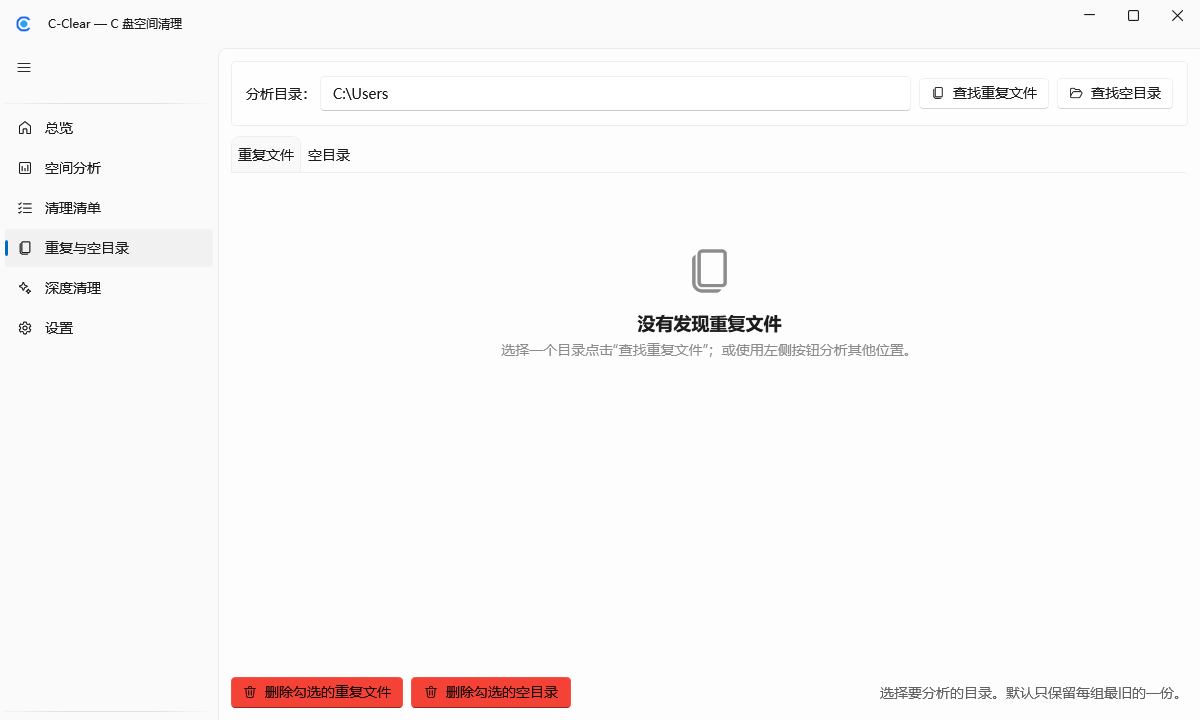
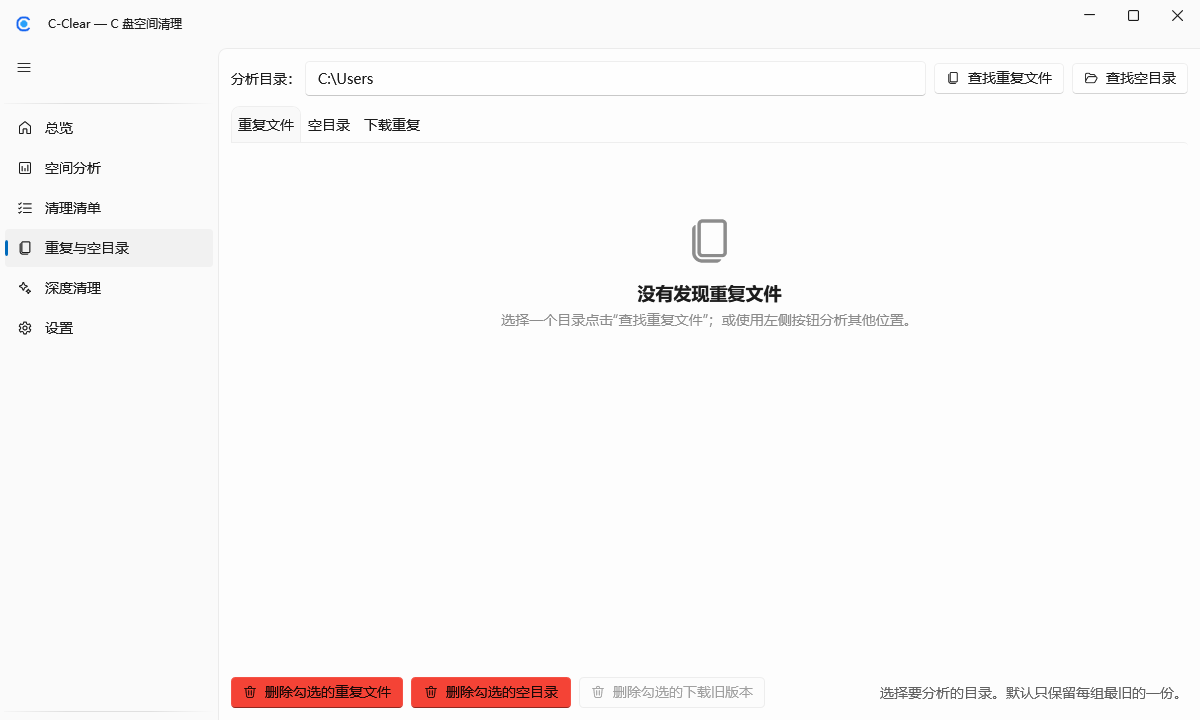
feat(license): P9 Pro 授权开关启用 + 版本 0.5.0 + 发布物料
- HasFeature 接线 P4–P8 全部高级项（smart-advisor/leftover-scan/
  trend-forecast/advanced-triggers/download-duplicates）；免费核心
  （体检/清理/Treemap/多盘/基础自动清理）零缩水
- 5 处 Pro 徽标改为可点击按钮（清理横幅/卸载残留/高级触发/周报/下载重复），
  点击弹 Pro 引导卡：¥49 永久买断 + 功能清单 + 仓库链接 + 激活方式；
  仅点击时展示，绝无主动弹窗（合规红线）
- LicenseTests 新增：全部 Pro 功能签发→逐项解锁、子集签发→仅解锁子集
- 端到端验证：dev seed（匹配内嵌公钥）签发含全部功能 license → 内嵌公钥
  ValidateFile 通过 → 安装 %APPDATA% → 7 个功能 HasFeature 全 true →
  激活态截图徽标消失 → 测试许可证移除
- 图标修正：Download24 在 SymbolRegular 枚举中不存在（grep 假阳性，
  Information24 教训重演）→ 反射探针确认改用 ArrowDownload24
- 版本 0.5.0；README 更新（V3 功能/截图/商业化/运行要求 19041+/项目结构）
- 新增 docs/V3计划-执行记录.md（阶段交付、实现决策、红线对照）
- 最终 149 个 xunit 全绿；深浅色截图更新至 docs/screenshots/

diff --git a/src/Cclear.App/Views/DuplicatesPage.xaml b/src/Cclear.App/Views/DuplicatesPage.xaml
@@ -112,13 +112,11 @@
                 <Grid Margin="0,8,0,0">
                     <StackPanel>
                         <StackPanel Orientation="Horizontal">
-                            <ui:Button Content="扫描下载重复" Icon="{ui:SymbolIcon Download24}" Appearance="Primary"
+                            <ui:Button Content="扫描下载重复" Icon="{ui:SymbolIcon ArrowDownload24}" Appearance="Primary"
                                        Command="{Binding FindDownloadDuplicatesCommand}" MinWidth="130" MinHeight="34" />
-                            <Border Background="{DynamicResource AccentFillColorDefaultBrush}" CornerRadius="4" Padding="6,2"
-                                    Margin="8,0,0,0" VerticalAlignment="Center"
-                                    Visibility="{Binding DownloadIsPro, Converter={StaticResource BoolToInvisibility}}">
-                                <TextBlock Text="Pro" FontSize="11" FontWeight="Bold" Foreground="White" />
-                            </Border>
+                            <Button Style="{StaticResource ProBadgeButton}" Content="Pro" Margin="8,0,0,0" VerticalAlignment="Center"
+                                    Visibility="{Binding DownloadIsPro, Converter={StaticResource BoolToInvisibility}}"
+                                    Click="OnProBadgeClick" />
                             <TextBlock Text="{Binding DownloadStatusText}" Margin="12,0,0,0" VerticalAlignment="Center"
                                        Foreground="{DynamicResource TextFillColorTertiaryBrush}" TextTrimming="CharacterEllipsis" />
                         </StackPanel>
@@ -129,7 +127,7 @@
                     <Border Visibility="{Binding DownloadGroups.Count, Converter={StaticResource EmptyStateVisibility}}"
                             VerticalAlignment="Top" Margin="0,90,0,0">
                         <StackPanel HorizontalAlignment="Center">
-                            <ui:SymbolIcon Symbol="Download24" FontSize="52" HorizontalAlignment="Center"
+                            <ui:SymbolIcon Symbol="ArrowDownload24" FontSize="52" HorizontalAlignment="Center"
                                            Foreground="{DynamicResource TextFillColorTertiaryBrush}" />
                             <TextBlock Text="没有发现同名重复下载" FontSize="18" FontWeight="SemiBold" HorizontalAlignment="Center" Margin="0,12,0,0" />
                             <TextBlock Text="扫描当前用户 Downloads 目录（含子目录），识别 setup.exe / setup (1).exe 这类重复下载。"

diff --git a/src/Cclear.App/App.xaml b/src/Cclear.App/App.xaml
@@ -45,6 +45,31 @@
                 <Setter Property="Background" Value="{DynamicResource ControlFillColorDefaultBrush}" />
             </Style>
 
+            <!--  Pro 徽标按钮（V3 P9）：仅点击时弹出 Pro 引导卡，绝无主动弹窗  -->
+            <Style x:Key="ProBadgeButton" TargetType="{x:Type Button}">
+                <Setter Property="Background" Value="{DynamicResource AccentFillColorDefaultBrush}" />
+                <Setter Property="Foreground" Value="White" />
+                <Setter Property="FontSize" Value="11" />
+                <Setter Property="FontWeight" Value="Bold" />
+                <Setter Property="Padding" Value="6,1" />
+                <Setter Property="Cursor" Value="Hand" />
+                <Setter Property="Template">
+                    <Setter.Value>
+                        <ControlTemplate TargetType="{x:Type Button}">
+                            <Border Background="{TemplateBinding Background}" CornerRadius="4"
+                                    Padding="{TemplateBinding Padding}">
+                                <ContentPresenter VerticalAlignment="Center" />
+                            </Border>
+                            <ControlTemplate.Triggers>
+                                <Trigger Property="IsMouseOver" Value="True">
+                                    <Setter Property="Opacity" Value="0.85" />
+                                </Trigger>
+                            </ControlTemplate.Triggers>
+                        </ControlTemplate>
+                    </Setter.Value>
+                </Setter>
+            </Style>
+
             <!--  卡片 hover 抬升（V3 微交互：阴影随悬停出现，可点击的反馈暗示）  -->
             <Style TargetType="{x:Type ui:Card}" BasedOn="{StaticResource {x:Type ui:Card}}">
                 <Style.Triggers>

diff --git a/src/Cclear.App/Views/DeepCleanPage.xaml b/src/Cclear.App/Views/DeepCleanPage.xaml
@@ -116,11 +116,9 @@
                         <ui:SymbolIcon Symbol="Delete24" Margin="0,0,8,0"
                                        Foreground="{DynamicResource SystemFillColorCautionBrush}" />
                         <TextBlock Text="卸载残留扫描" FontSize="15" FontWeight="SemiBold" VerticalAlignment="Center" />
-                        <Border Background="{DynamicResource AccentFillColorDefaultBrush}" CornerRadius="4"
-                                Padding="6,1" Margin="8,0,0,0" VerticalAlignment="Center"
-                                Visibility="{Binding LeftoverIsPro, Converter={StaticResource BoolToInvisibility}}">
-                            <TextBlock Text="Pro" FontSize="11" FontWeight="Bold" Foreground="White" />
-                        </Border>
+                        <Button Style="{StaticResource ProBadgeButton}" Content="Pro" Margin="8,0,0,0" VerticalAlignment="Center"
+                                Visibility="{Binding LeftoverIsPro, Converter={StaticResource BoolToInvisibility}}"
+                                Click="OnProBadgeClick" />
                     </StackPanel>
                     <TextBlock Text="是什么：应用卸载后残留在 AppData/ProgramData 里的孤儿数据目录。为什么：卸载程序通常不清理用户数据目录，日积月累占用可达数 GB。代价：勾选后进回收站可还原；已按注册表卸载登记过滤，最近 14 天有改动的目录（可能正在安装）自动排除；Program Files 内的受保护目录仅提示不提供删除。"
                                Foreground="{DynamicResource TextFillColorSecondaryBrush}" Margin="0,8,0,10" TextWrapping="Wrap" />

diff --git a/src/Cclear.App/Views/CleanListPage.xaml b/src/Cclear.App/Views/CleanListPage.xaml
@@ -15,11 +15,9 @@
                     <ui:SymbolIcon Symbol="Sparkle24" FontSize="18" VerticalAlignment="Center"
                                    Foreground="{DynamicResource AccentFillColorDefaultBrush}" />
                     <TextBlock Text="智能建议" FontWeight="SemiBold" VerticalAlignment="Center" Margin="8,0,0,0" />
-                    <Border Background="{DynamicResource AccentFillColorDefaultBrush}" CornerRadius="4"
-                            Padding="6,1" Margin="8,0,0,0" VerticalAlignment="Center"
-                            Visibility="{Binding AdvisorIsPro, Converter={StaticResource BoolToInvisibility}}">
-                        <TextBlock Text="Pro" FontSize="11" FontWeight="Bold" Foreground="White" />
-                    </Border>
+                    <Button Style="{StaticResource ProBadgeButton}" Content="Pro" Margin="8,0,0,0" VerticalAlignment="Center"
+                            Visibility="{Binding AdvisorIsPro, Converter={StaticResource BoolToInvisibility}}"
+                            Click="OnProBadgeClick" />
                     <TextBlock Text="{Binding AdvisorBannerText}" VerticalAlignment="Center" Margin="10,0,0,0"
                                TextWrapping="Wrap" Foreground="{DynamicResource TextFillColorSecondaryBrush}"
                                MaxWidth="640" />

diff --git a/src/Cclear.App/Views/Settings/SettingsAutoCleanView.xaml b/src/Cclear.App/Views/Settings/SettingsAutoCleanView.xaml
@@ -41,11 +41,9 @@
         <!--  高级触发（V3 P7，Pro 底座：先放后收，未激活也可用）  -->
         <StackPanel Orientation="Horizontal" Margin="0,22,0,0">
             <TextBlock Text="高级触发" FontSize="18" FontWeight="SemiBold" VerticalAlignment="Center" />
-            <Border Background="{DynamicResource AccentFillColorDefaultBrush}" CornerRadius="4" Padding="6,2"
-                    Margin="8,0,0,0" VerticalAlignment="Center"
-                    Visibility="{Binding AdvancedTriggersIsPro, Converter={StaticResource BoolToInvisibility}}">
-                <TextBlock Text="Pro" FontSize="11" FontWeight="Bold" Foreground="White" />
-            </Border>
+            <Button Style="{StaticResource ProBadgeButton}" Content="Pro" Margin="8,0,0,0" VerticalAlignment="Center"
+                    Visibility="{Binding AdvancedTriggersIsPro, Converter={StaticResource BoolToInvisibility}}"
+                    Click="OnProBadgeClick" />
         </StackPanel>
         <TextBlock Text="计划任务多触发器，依旧无常驻后台：登录触发由 Windows 计划任务原生支持；空间阈值触发由每日采样任务判定后拉起（同一天最多一次）。"
                    Foreground="{DynamicResource TextFillColorTertiaryBrush}" Margin="0,6,0,4" TextWrapping="Wrap" />

diff --git a/src/Cclear.App/Views/Settings/SettingsLogsView.xaml b/src/Cclear.App/Views/Settings/SettingsLogsView.xaml
@@ -12,11 +12,9 @@
                        Command="{Binding OpenLogsFolderCommand}" MinWidth="140" MinHeight="34" Appearance="Primary" />
             <ui:Button Content="导出本周 HTML 周报" Icon="{ui:SymbolIcon Document24}"
                        Command="{Binding ExportWeeklyReportCommand}" MinWidth="160" MinHeight="34" Margin="8,0,0,0" />
-            <Border Background="{DynamicResource AccentFillColorDefaultBrush}" CornerRadius="4" Padding="6,2"
-                    Margin="8,0,0,0" VerticalAlignment="Center"
-                    Visibility="{Binding ReportIsPro, Converter={StaticResource BoolToInvisibility}}">
-                <TextBlock Text="Pro" FontSize="11" FontWeight="Bold" Foreground="White" />
-            </Border>
+            <Button Style="{StaticResource ProBadgeButton}" Content="Pro" Margin="8,0,0,0" VerticalAlignment="Center"
+                    Visibility="{Binding ReportIsPro, Converter={StaticResource BoolToInvisibility}}"
+                    Click="OnProBadgeClick" />
             <TextBlock Text="{Binding ReportStatusText}" Margin="12,0,0,0" VerticalAlignment="Center"
                        Foreground="{DynamicResource TextFillColorSecondaryBrush}" TextTrimming="CharacterEllipsis" />
         </StackPanel>

diff --git a/tests/Cclear.Core.Tests/LicenseTests.cs b/tests/Cclear.Core.Tests/LicenseTests.cs
@@ -137,4 +137,39 @@ public class LicenseTests : IDisposable
         Assert.False(result.IsValid);
         Assert.Null(result.License);
     }
+
+    [Fact]
+    public void License_AllProFeatures_HasFeatureUnlocksEach()
+    {
+        // V3 P9：签发含全部 Pro 功能的许可证 → 每个功能开关解锁
+        var seed = RandomNumberGenerator.GetBytes(32);
+        var publicKeyHex = LicenseService.DerivePublicKeyHex(seed);
+        var payload = new LicensePayload("测试用户", "CC-TEST-ALL", LicenseService.ProductId,
+            LicenseService.ProFeatures, "2026-01-01T00:00:00Z", null);
+        File.WriteAllText(_path, LicenseService.BuildLicenseFile(payload, seed));
+
+        var result = LicenseService.ValidateFile(_path, publicKeyHex);
+        Assert.True(result.IsValid);
+        Assert.NotEmpty(LicenseService.ProFeatures);
+        foreach (var feature in LicenseService.ProFeatures)
+        {
+            Assert.True(result.License!.HasFeature(feature), feature);
+            Assert.True(LicenseService.ValidateFile(_path, publicKeyHex).License!.HasFeature(feature), feature);
+        }
+        // 非列表功能不受支持
+        Assert.False(result.License!.HasFeature("nonexistent-feature"));
+    }
+
+    [Fact]
+    public void License_FeatureSubset_OnlyUnlocksSubset()
+    {
+        var seed = RandomNumberGenerator.GetBytes(32);
+        var publicKeyHex = LicenseService.DerivePublicKeyHex(seed);
+        var payload = new LicensePayload("单功能用户", "CC-TEST-ONE", LicenseService.ProductId,
+            new[] { LicenseService.FeatureSmartAdvisor }, "2026-01-01T00:00:00Z", null);
+        File.WriteAllText(_path, LicenseService.BuildLicenseFile(payload, seed));
+        var license = LicenseService.ValidateFile(_path, publicKeyHex).License!;
+        Assert.True(license.HasFeature(LicenseService.FeatureSmartAdvisor));
+        Assert.False(license.HasFeature(LicenseService.FeatureLeftoverScan));
+    }
 }

diff --git a/src/Cclear.App/Services/UiServices.cs b/src/Cclear.App/Services/UiServices.cs
@@ -53,4 +53,27 @@ public static class UiServices
         var result = await messageBox.ShowDialogAsync();
         return result == MessageBoxResult.Primary;
     }
+
+    /// <summary>
+    /// Pro 引导卡（V3 P9）：仅点击 Pro 徽标/功能入口时展示，绝无主动弹窗。
+    /// 信息 = 定价（¥49 买断）+ 开源仓库 + 激活方式；不设联网 DRM。
+    /// </summary>
+    public static Task ShowProGuide()
+    {
+        var messageBox = new MessageBox
+        {
+            Title = "C-Clear Pro（¥49 买断）",
+            Content = "Pro 功能（永久买断，无订阅、无广告、无推广弹窗）：\n\n"
+                + "· 智能清理建议（一键勾选推荐项）\n"
+                + "· 卸载残留扫描（只引导，回收站可还原）\n"
+                + "· 趋势预测 + HTML 周报导出\n"
+                + "· 自动清理高级触发（登录后 / 空间阈值）\n"
+                + "· 下载重复检测（保留最新）\n\n"
+                + "免费核心永不缩水：体检、清理、空间矩形图、多盘支持、每周自动清理全部免费。\n\n"
+                + "购买与激活：在 GitHub 仓库（github.com/wangjie0721666-web/c-clear）README 获取购买链接；"
+                + "收到 license.dat 后到 设置 → 关于 → 导入许可证 即刻解锁（离线验证，无联网 DRM）。",
+            PrimaryButtonText = "知道了",
+        };
+        return messageBox.ShowDialogAsync();
+    }
 }

diff --git a/src/Cclear.App/Views/Settings/SettingsAutoCleanView.xaml.cs b/src/Cclear.App/Views/Settings/SettingsAutoCleanView.xaml.cs
@@ -8,4 +8,9 @@ public partial class SettingsAutoCleanView : UserControl
     {
         InitializeComponent();
     }
+    /// <summary>点击 Pro 徽标：展示 Pro 引导卡（仅点击时展示，绝无主动弹窗）。</summary>
+    private void OnProBadgeClick(object sender, System.Windows.RoutedEventArgs e)
+    {
+        _ = Cclear.App.Services.UiServices.ShowProGuide();
+    }
 }

diff --git a/src/Cclear.App/Views/Settings/SettingsLogsView.xaml.cs b/src/Cclear.App/Views/Settings/SettingsLogsView.xaml.cs
@@ -8,4 +8,9 @@ public partial class SettingsLogsView : UserControl
     {
         InitializeComponent();
     }
+    /// <summary>点击 Pro 徽标：展示 Pro 引导卡（仅点击时展示，绝无主动弹窗）。</summary>
+    private void OnProBadgeClick(object sender, System.Windows.RoutedEventArgs e)
+    {
+        _ = Cclear.App.Services.UiServices.ShowProGuide();
+    }
 }

diff --git a/src/Cclear.App/Views/DuplicatesPage.xaml.cs b/src/Cclear.App/Views/DuplicatesPage.xaml.cs
@@ -8,4 +8,9 @@ public partial class DuplicatesPage : UserControl
     {
         InitializeComponent();
     }
+    /// <summary>点击 Pro 徽标：展示 Pro 引导卡（仅点击时展示，绝无主动弹窗）。</summary>
+    private void OnProBadgeClick(object sender, System.Windows.RoutedEventArgs e)
+    {
+        _ = Cclear.App.Services.UiServices.ShowProGuide();
+    }
 }

diff --git a/src/Cclear.App/Views/CleanListPage.xaml.cs b/src/Cclear.App/Views/CleanListPage.xaml.cs
@@ -8,4 +8,9 @@ public partial class CleanListPage : UserControl
     {
         InitializeComponent();
     }
+    /// <summary>点击 Pro 徽标：展示 Pro 引导卡（仅点击时展示，绝无主动弹窗）。</summary>
+    private void OnProBadgeClick(object sender, System.Windows.RoutedEventArgs e)
+    {
+        _ = Cclear.App.Services.UiServices.ShowProGuide();
+    }
 }
